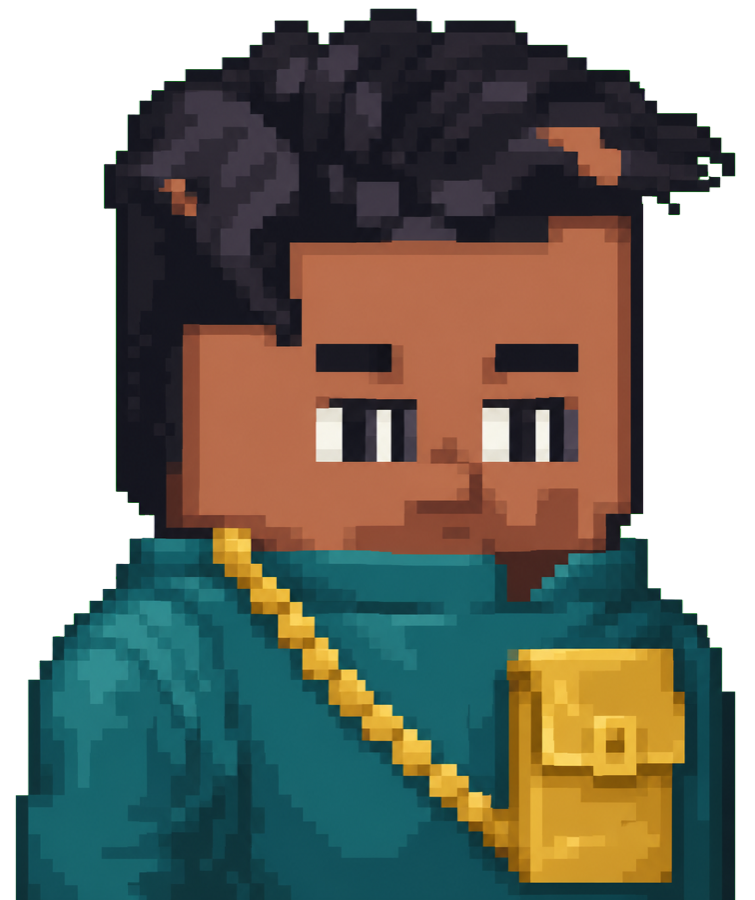
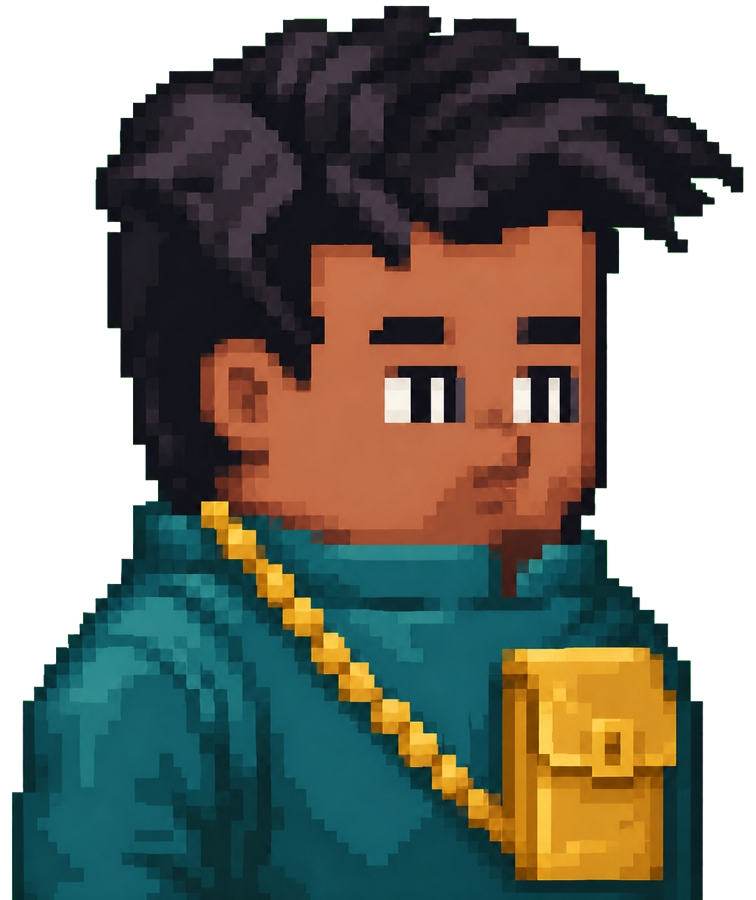
feat: add detailed authored dialogue portraits

diff --git a/src/ui/QuestOfferDialogue.tsx b/src/ui/QuestOfferDialogue.tsx
@@ -2,21 +2,37 @@ import { Image, Pressable, StyleSheet, Text, View } from 'react-native';
 
 import type { ViewportSize } from '../render/camera';
 import type { UiScale } from '../render/responsive-layout';
-import { CharacterPortrait } from './CharacterPortrait';
 import { uiMetrics } from './ui-metrics';
 
-const protagonistPortrait = require('../../assets/source/dialogue-portraits/protagonist.png') as number;
+const portraits = {
+  protagonist: require('../../assets/source/dialogue-portraits/protagonist.png') as number,
+  linda: require('../../assets/source/dialogue-portraits/linda.png') as number,
+  'linda-boyfriend': require('../../assets/source/dialogue-portraits/linda-boyfriend.png') as number,
+} as const;
 
 type QuestOfferDialogueProps = Readonly<{
   accent: string;
   onAccept: () => void;
   onDecline: () => void;
   playerName: string;
+  speakerId?: 'linda' | 'linda-boyfriend';
+  speakerName?: string;
+  speakerText?: string;
   surface: ViewportSize;
   uiScale: UiScale;
 }>;
 
-export function QuestOfferDialogue({ accent, onAccept, onDecline, playerName, surface, uiScale }: QuestOfferDialogueProps) {
+export function QuestOfferDialogue({
+  accent,
+  onAccept,
+  onDecline,
+  playerName,
+  speakerId = 'linda',
+  speakerName = 'Linda',
+  speakerText = 'My boyfriend has been frightening me. I do not feel safe checking on him alone. Will you help me?',
+  surface,
+  uiScale,
+}: QuestOfferDialogueProps) {
   const metrics = uiMetrics(uiScale);
   const choiceWidth = Math.min(430, Math.round(surface.width * 0.36));
   const stripHeight = Math.max(Math.round(150 * metrics.scale), Math.round(surface.height * 0.22));
@@ -24,7 +40,7 @@ export function QuestOfferDialogue({ accent, onAccept, onDecline, playerName, su
   const portraitWidth = Math.round(portraitHeight * 754 / 900);
   const dialogueText = { fontSize: metrics.conversationText, lineHeight: Math.round(metrics.conversationText * 1.5) };
   return (
-    <View accessibilityLabel="Linda quest offer" nativeID="world-ui-quest-offer-overlay" style={styles.overlay}>
+    <View accessibilityLabel={`${speakerName} authored dialogue`} nativeID="world-ui-quest-offer-overlay" style={styles.overlay}>
       <View
         nativeID="world-ui-quest-offer-panel"
         style={[styles.scene, { height: surface.height, width: surface.width }]}
@@ -34,38 +50,45 @@ export function QuestOfferDialogue({ accent, onAccept, onDecline, playerName, su
             accessibilityLabel={`Portrait of ${playerName}`}
             nativeID="conversation-portrait-protagonist"
             resizeMode="contain"
-            source={protagonistPortrait}
+            source={portraits.protagonist}
             style={{ height: portraitHeight, width: portraitWidth }}
           />
           <View nativeID="conversation-portrait-protagonist-ready" style={styles.portraitReady} />
         </View>
         <View style={styles.actorRight}>
-          <View style={styles.facesLeft}><CharacterPortrait displayName="Linda" expression="upset" npcId="linda" scale={20} /></View>
+          <Image
+            accessibilityLabel={`Portrait of ${speakerName}`}
+            nativeID={`conversation-portrait-${speakerId}`}
+            resizeMode="contain"
+            source={portraits[speakerId]}
+            style={{ height: portraitHeight, width: portraitWidth }}
+          />
+          <View nativeID={`conversation-portrait-${speakerId}-ready`} style={styles.portraitReady} />
         </View>
         <View style={[styles.actions, { bottom: stripHeight + metrics.gap, left: (surface.width - choiceWidth) / 2, width: choiceWidth }] }>
           <Pressable
-            accessibilityLabel="Accept Linda's request"
+            accessibilityLabel={speakerId === 'linda' ? "Accept Linda's request" : 'Ask Marcus what happened'}
             onPress={onAccept}
             style={({ pressed }) => [styles.accept, { minHeight: metrics.primaryControl }, pressed && styles.pressed]}
           >
-            <Text style={[styles.acceptText, { fontSize: metrics.persistentText }]}>YES · HELP LINDA</Text>
+            <Text style={[styles.acceptText, { fontSize: metrics.persistentText }]}>{speakerId === 'linda' ? 'YES · HELP LINDA' : 'ASK WHAT HAPPENED'}</Text>
           </Pressable>
           <Pressable
-            accessibilityLabel="Decline Linda's request"
+            accessibilityLabel={speakerId === 'linda' ? "Decline Linda's request" : 'Leave Marcus'}
             onPress={onDecline}
             style={({ pressed }) => [styles.decline, { minHeight: metrics.primaryControl }, pressed && styles.pressed]}
           >
-            <Text style={[styles.declineText, { fontSize: metrics.persistentText }]}>NO · NOT NOW</Text>
+            <Text style={[styles.declineText, { fontSize: metrics.persistentText }]}>{speakerId === 'linda' ? 'NO · NOT NOW' : 'LEAVE'}</Text>
           </Pressable>
         </View>
         <View style={[styles.speech, { height: stripHeight, paddingHorizontal: Math.max(28, Math.round(surface.width * 0.19)) }] }>
           <View style={[styles.nameplate, { backgroundColor: accent }]}>
-            <Text style={[styles.speaker, { fontSize: metrics.persistentText }]}>LINDA</Text>
+            <Text style={[styles.speaker, { fontSize: metrics.persistentText }]}>{speakerName.toUpperCase()}</Text>
           </View>
           <Text style={[styles.dialogue, dialogueText]}>
-            My boyfriend has been frightening me. I do not feel safe checking on him alone. Will you help me?
+            {speakerText}
           </Text>
-          <Text style={[styles.question, { fontSize: metrics.secondaryText }]}>LINDA IS WAITING FOR {playerName.toUpperCase()}'S ANSWER.</Text>
+          <Text style={[styles.question, { fontSize: metrics.secondaryText }]}>{speakerName.toUpperCase()} IS WAITING FOR {playerName.toUpperCase()}'S ANSWER.</Text>
         </View>
       </View>
     </View>
@@ -81,8 +104,6 @@ const styles = StyleSheet.create({
   decline: { alignItems: 'center', backgroundColor: '#100d0ae6', borderColor: '#76573d', borderWidth: 1, justifyContent: 'center', paddingHorizontal: 14 },
   declineText: { color: '#c3b18f', fontFamily: 'Silkscreen' },
   dialogue: { color: '#fff0c7', fontFamily: 'Silkscreen' },
-  facesLeft: { transform: [{ scaleX: -1 }] },
-  facesRight: { transform: [{ scaleX: 1 }] },
   nameplate: { alignItems: 'center', borderColor: '#fff0c7', borderWidth: 1, minWidth: 180, paddingHorizontal: 22, paddingVertical: 7, position: 'absolute', right: '18%', top: -18 },
   overlay: { backgroundColor: '#08090733', bottom: 0, left: 0, position: 'absolute', right: 0, top: 0, zIndex: 65 },
   pressed: { opacity: 0.78, transform: [{ translateY: 2 }] },

diff --git a/src/render/WorldScene.tsx b/src/render/WorldScene.tsx
@@ -399,6 +399,7 @@ export function WorldScene({
   const [conversationNpcId, setConversationNpcId] = useState<string | undefined>(initialConversationFixtureId);
   const [conversationFixtureId, setConversationFixtureId] = useState<CharacterId | undefined>(initialConversationFixtureId);
   const [questOfferOpen, setQuestOfferOpen] = useState(false);
+  const [authoredDialogueFixtureId, setAuthoredDialogueFixtureId] = useState<'linda-boyfriend'>();
   const [openPanel, setOpenPanel] = useState<'journal' | 'relationships' | undefined>(initialOpenPanel);
   const [audioCaption, setAudioCaption] = useState<string>();
   const [responsiveEvidence, setResponsiveEvidence] = useState('');
@@ -515,6 +516,13 @@ export function WorldScene({
       setConversationFixtureId(undefined);
       setConversationNpcId(undefined);
     };
+    window.siWorldSetAuthoredDialogueFixture = (characterId) => {
+      setOpenPanel(undefined);
+      setConversationFixtureId(undefined);
+      setConversationNpcId(undefined);
+      setAuthoredDialogueFixtureId(characterId);
+      setQuestOfferOpen(true);
+    };
     window.siWorldOpenVfxFixture = (fixtureMapId, effectId) => {
       const fixtureMap = WORLD_MAP_CATALOG[fixtureMapId];
       const effect = fixtureMap.source.effects.find(({ id }) => id === effectId);
@@ -578,6 +586,7 @@ export function WorldScene({
     return () => {
       delete window.siWorldOpenConversationFixture;
       delete window.siWorldCloseConversationFixture;
+      delete window.siWorldSetAuthoredDialogueFixture;
       delete window.siWorldOpenVfxFixture;
     };
   }, []);
@@ -1722,6 +1731,11 @@ export function WorldScene({
               playInterfaceSound('panel-close');
             }}
             playerName={runtime.worldState.protagonist.displayName}
+            speakerId={authoredDialogueFixtureId ?? 'linda'}
+            speakerName={authoredDialogueFixtureId ? 'Marcus Vale' : 'Linda'}
+            speakerText={authoredDialogueFixtureId
+              ? 'Linda told you I frightened her? You have heard only one side. Ask what happened before you judge me.'
+              : undefined}
             surface={surface}
             uiScale={uiScale}
           />

diff --git a/electron/main/index.ts b/electron/main/index.ts
@@ -1596,6 +1596,12 @@ async function captureWorldSmoke(window: BrowserWindow, directory: string): Prom
   previousWorldBuffer = await captureDistinctSmokeScreenshot(
     window, join(directory, 'world-linda-offer.png'), [previousWorldBuffer],
   );
+  await window.webContents.executeJavaScript(`window.siWorldSetAuthoredDialogueFixture?.('linda-boyfriend')`, true);
+  await waitForRendererText(window, '#world-ui-quest-offer-panel', 'MARCUS VALE');
+  await waitForRendererPaint(window);
+  await captureSmokeScreenshot(window, join(directory, 'world-marcus-dialogue.png'));
+  await window.webContents.executeJavaScript(`window.siWorldSetAuthoredDialogueFixture?.()`, true);
+  await waitForRendererText(window, '#world-ui-quest-offer-panel', 'YES · HELP LINDA');
   await clickAriaButton(window, "Accept Linda's request");
   await waitForSelectorMissing(window, '#world-ui-quest-offer-panel');
   await waitForRendererText(window, '#world-save-status', 'SAVED GEN 7');

diff --git a/src/application/DesktopBridge.ts b/src/application/DesktopBridge.ts
@@ -39,6 +39,7 @@ declare global {
     siWorldSmokeMode?: boolean;
     siWorldOpenConversationFixture?: (characterId: CharacterId) => void;
     siWorldCloseConversationFixture?: () => void;
+    siWorldSetAuthoredDialogueFixture?: (characterId?: 'linda-boyfriend') => void;
     siWorldOpenVfxFixture?: (mapId: MapId, effectId: string) => void;
   }
 }
